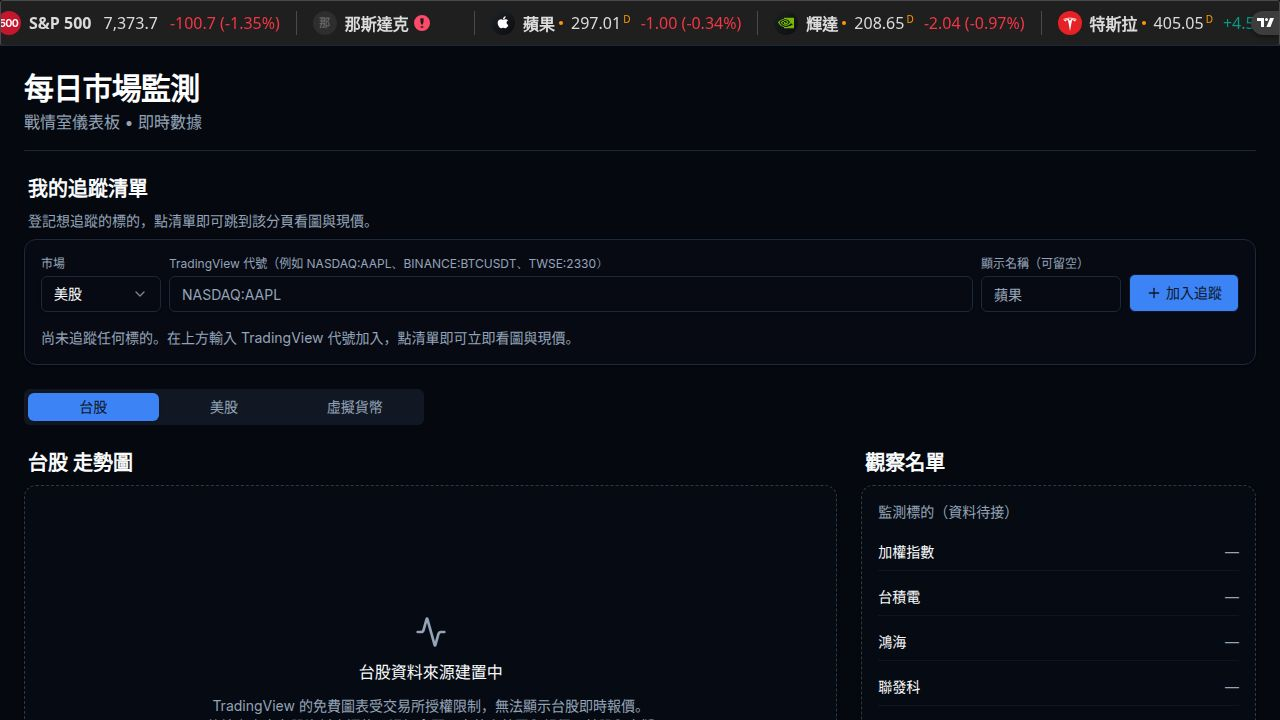
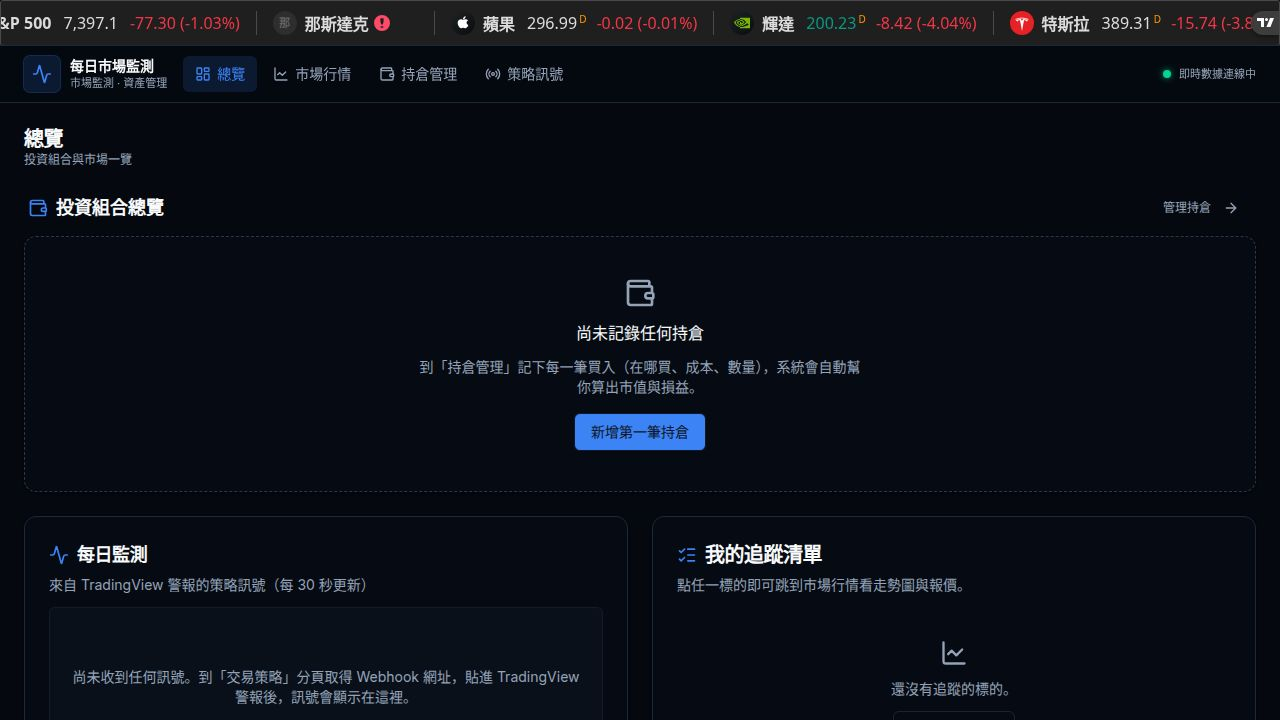
Update layout to use a top navigation bar instead of a sidebar
Modify AppShell.tsx to replace the sidebar with a horizontal navigation bar at the top of the page.

Replit-Commit-Author: Agent
Replit-Commit-Session-Id: 0b42b66b-923d-4b39-b59f-1ea9ea955beb
Replit-Commit-Checkpoint-Type: full_checkpoint
Replit-Commit-Event-Id: 4880aa0c-f571-485f-8139-30d1699898df
Replit-Commit-Screenshot-Url: https://storage.googleapis.com/screenshot-production-us-central1/607578ac-c152-440e-a12b-784cddfa2d9d/0b42b66b-923d-4b39-b59f-1ea9ea955beb/nP3cECw
Replit-Helium-Checkpoint-Created: true

diff --git a/artifacts/market-monitor/src/components/AppShell.tsx b/artifacts/market-monitor/src/components/AppShell.tsx
@@ -1,20 +1,6 @@
 import React from 'react';
 import { Link, useLocation } from 'wouter';
 import { LayoutDashboard, LineChart, Wallet, Radio, Activity } from 'lucide-react';
-import {
-  Sidebar,
-  SidebarContent,
-  SidebarFooter,
-  SidebarGroup,
-  SidebarGroupContent,
-  SidebarHeader,
-  SidebarInset,
-  SidebarMenu,
-  SidebarMenuButton,
-  SidebarMenuItem,
-  SidebarProvider,
-  SidebarTrigger,
-} from '@/components/ui/sidebar';
 import { TickerTape } from '@/components/TickerTape';
 import { ALL_TICKERS } from '@/lib/markets';
 
@@ -41,70 +27,61 @@ export const AppShell: React.FC<{ children: React.ReactNode }> = ({ children }) 
   const current = [...NAV].reverse().find((n) => isActive(n.href, location)) ?? NAV[0];
 
   return (
-    <div className="dark">
-      <SidebarProvider>
-        <Sidebar collapsible="icon">
-          <SidebarHeader>
-            <div className="flex items-center gap-2.5 px-2 py-1.5">
-              <div className="flex h-9 w-9 shrink-0 items-center justify-center rounded-md bg-primary/15 ring-1 ring-primary/30">
-                <Activity className="h-5 w-5 text-primary" />
-              </div>
-              <div className="flex flex-col group-data-[collapsible=icon]:hidden">
-                <span className="text-sm font-semibold leading-tight text-foreground">
-                  每日市場監測
-                </span>
-                <span className="text-[11px] text-muted-foreground">市場監測 · 資產管理</span>
-              </div>
-            </div>
-          </SidebarHeader>
+    <div className="dark flex min-h-screen flex-col bg-background text-foreground">
+      <TickerTape symbols={ALL_TICKERS} />
 
-          <SidebarContent>
-            <SidebarGroup>
-              <SidebarGroupContent>
-                <SidebarMenu>
-                  {NAV.map((item) => (
-                    <SidebarMenuItem key={item.href}>
-                      <SidebarMenuButton
-                        asChild
-                        isActive={isActive(item.href, location)}
-                        tooltip={item.label}
-                      >
-                        <Link href={item.href}>
-                          <item.icon className="h-4 w-4" />
-                          <span>{item.label}</span>
-                        </Link>
-                      </SidebarMenuButton>
-                    </SidebarMenuItem>
-                  ))}
-                </SidebarMenu>
-              </SidebarGroupContent>
-            </SidebarGroup>
-          </SidebarContent>
-
-          <SidebarFooter>
-            <div className="flex items-center gap-2 px-2 py-1.5 text-[11px] text-muted-foreground group-data-[collapsible=icon]:hidden">
-              <span className="h-2 w-2 rounded-full bg-emerald-400 shadow-[0_0_6px] shadow-emerald-400/70" />
-              即時數據連線中
+      <header className="sticky top-0 z-30 border-b border-border bg-background/85 backdrop-blur">
+        <div className="mx-auto flex w-full max-w-[1600px] items-center gap-4 px-4 py-2.5 md:px-6">
+          <div className="flex shrink-0 items-center gap-2.5">
+            <div className="flex h-9 w-9 items-center justify-center rounded-md bg-primary/15 ring-1 ring-primary/30">
+              <Activity className="h-5 w-5 text-primary" />
             </div>
-          </SidebarFooter>
-        </Sidebar>
-
-        <SidebarInset className="bg-background">
-          <TickerTape symbols={ALL_TICKERS} />
-          <header className="sticky top-0 z-20 flex items-center gap-3 border-b border-border bg-background/80 px-4 py-3 backdrop-blur md:px-6">
-            <SidebarTrigger className="-ml-1" />
-            <div className="flex flex-col">
-              <h1 className="text-lg font-semibold leading-tight tracking-tight text-foreground md:text-xl">
-                {current.label}
-              </h1>
-              <p className="text-xs text-muted-foreground">{current.subtitle}</p>
+            <div className="hidden flex-col sm:flex">
+              <span className="text-sm font-semibold leading-tight text-foreground">
+                每日市場監測
+              </span>
+              <span className="text-[11px] text-muted-foreground">市場監測 · 資產管理</span>
             </div>
-          </header>
-          <main className="flex-1 p-4 md:p-6">
-            <div className="mx-auto w-full max-w-[1600px]">{children}</div>
-          </main>
-        </SidebarInset>
-      </SidebarProvider>
+          </div>
+
+          <nav className="flex flex-1 items-center gap-1 overflow-x-auto">
+            {NAV.map((item) => {
+              const active = isActive(item.href, location);
+              return (
+                <Link
+                  key={item.href}
+                  href={item.href}
+                  className={`flex items-center gap-1.5 whitespace-nowrap rounded-md px-3 py-2 text-sm font-medium transition-colors ${
+                    active
+                      ? 'bg-primary/15 text-primary'
+                      : 'text-muted-foreground hover:bg-muted hover:text-foreground'
+                  }`}
+                >
+                  <item.icon className="h-4 w-4" />
+                  <span>{item.label}</span>
+                </Link>
+              );
+            })}
+          </nav>
+
+          <div className="hidden shrink-0 items-center gap-2 text-[11px] text-muted-foreground lg:flex">
+            <span className="h-2 w-2 rounded-full bg-emerald-400 shadow-[0_0_6px] shadow-emerald-400/70" />
+            即時數據連線中
+          </div>
+        </div>
+      </header>
+
+      <main className="flex-1 p-4 md:p-6">
+        <div className="mx-auto w-full max-w-[1600px] space-y-6">
+          <div>
+            <h1 className="text-lg font-semibold leading-tight tracking-tight text-foreground md:text-xl">
+              {current.label}
+            </h1>
+            <p className="text-xs text-muted-foreground">{current.subtitle}</p>
+          </div>
+          {children}
+        </div>
+      </main>
     </div>
   );
 };